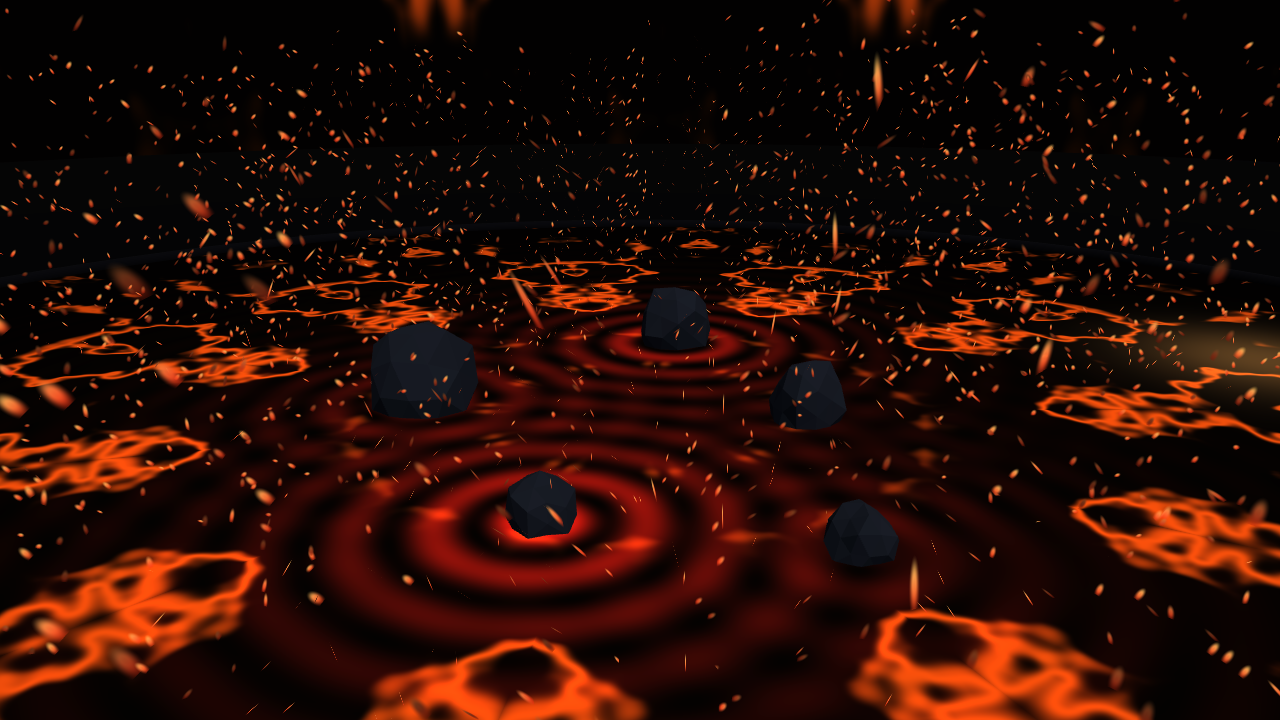
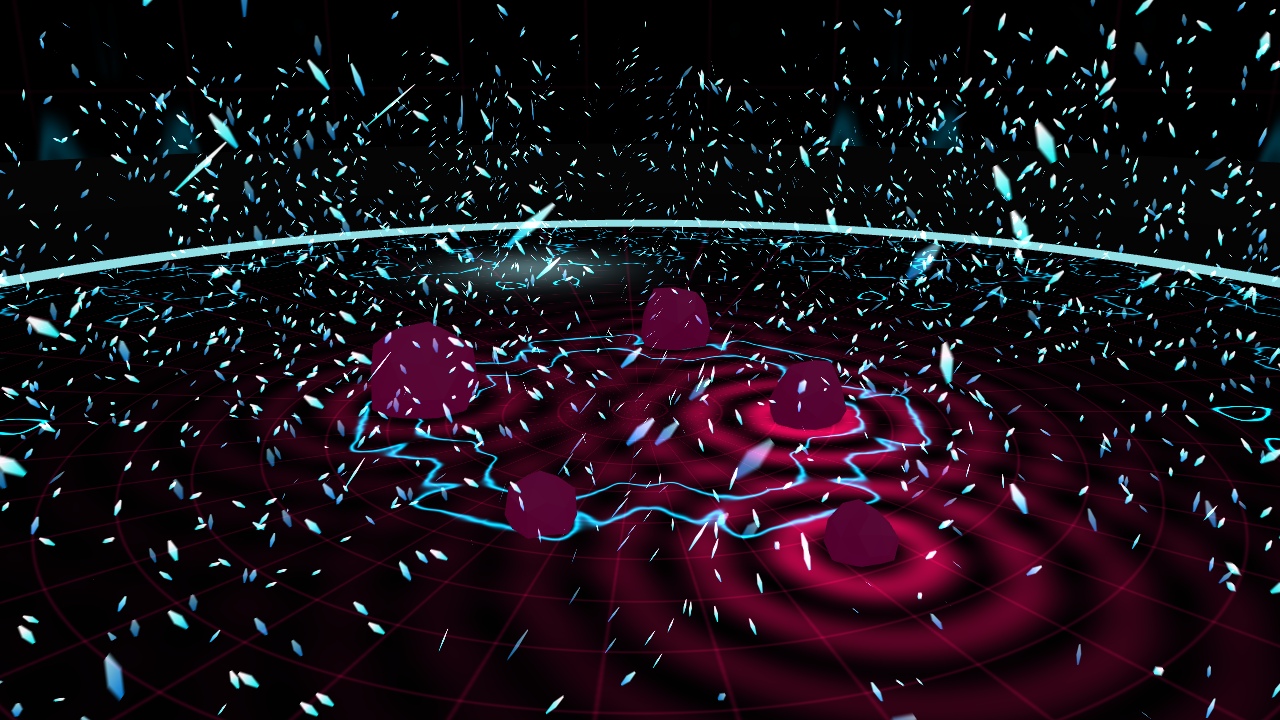
Cyber restyle: neon theme palettes, hologram grids, additive data shards, glowing rim

diff --git a/public/Kaleido_Garden/src/World.tsx b/public/Kaleido_Garden/src/World.tsx
@@ -10,7 +10,9 @@ import {
   InstancedBufferAttribute,
   InstancedBufferGeometry,
   Mesh,
-  NormalBlending,
+  MeshBasicMaterial,
+  MeshStandardMaterial,
+  AdditiveBlending,
   PlaneGeometry,
   ShaderMaterial,
   Vector3,
@@ -33,10 +35,10 @@ export type WorldProps = Record<string, never>
 
 const PETAL_COUNT = 3500
 const GARDEN_RADIUS = 26
-const SEASON_SECONDS = 120
+const THEME_SECONDS = 120
 // シェーダーへ渡す時刻はこの周期で折り返す（float精度対策。VAT_TestのMEADOWと同じ方針）
 const TIME_WRAP = 600
-const SEASON_FADE = 24
+const THEME_FADE = 24
 
 interface Palette {
   base: string
@@ -46,12 +48,16 @@ interface Palette {
   petalB: string
 }
 
-// 春・夏・秋・冬。2分ごとに次の季節へ24秒かけて移る。
+// サイバーなカラーテーマ4種。2分ごとに次のテーマへ24秒かけて移る。
 const PALETTES: Palette[] = [
-  { base: '#171021', glowA: '#ff9ecb', glowB: '#ffd98a', petalA: '#ffe3ef', petalB: '#ff9ec4' },
-  { base: '#0a1620', glowA: '#4fe3d2', glowB: '#9be7ff', petalA: '#eafffb', petalB: '#8fe8ff' },
-  { base: '#170f08', glowA: '#ff9a3c', glowB: '#ff5d47', petalA: '#ffd9a0', petalB: '#ff7a4d' },
-  { base: '#0a0d14', glowA: '#aecbf5', glowB: '#e8f1ff', petalA: '#ffffff', petalB: '#cfe0ff' },
+  // NEON CYAN × MAGENTA
+  { base: '#04060e', glowA: '#00e5ff', glowB: '#ff2ea6', petalA: '#d9fbff', petalB: '#00c8ff' },
+  // VIOLET PULSE
+  { base: '#07040f', glowA: '#a855f7', glowB: '#ff4d8d', petalA: '#f3e8ff', petalB: '#c084fc' },
+  // ACID MINT
+  { base: '#030a08', glowA: '#34ffb0', glowB: '#00b3ff', petalA: '#e2fff4', petalB: '#4dffc3' },
+  // AMBER ALERT
+  { base: '#0d0503', glowA: '#ffb020', glowB: '#ff3b30', petalA: '#fff3d6', petalB: '#ff8a3c' },
 ]
 
 const ROCKS = [
@@ -138,8 +144,12 @@ const FLOOR_FRAG = /* glsl */ `
     vec2 kp = kaleido(p, uSegments);
     vec2 flow = 1.2 * vec2(cos(uTime * 0.0524), sin(uTime * 0.0419));
     float v = fbm(kp * 0.32 + flow + fbm3(kp * 0.12 - flow) * 0.9);
-    float contour = 1.0 - smoothstep(0.0, 0.16, abs(fract(v * 2.6 + uTime * 0.015) - 0.5));
-    contour = pow(contour, 2.0);
+    float contour = 1.0 - smoothstep(0.0, 0.07, abs(fract(v * 2.6 + uTime * 0.015) - 0.5));
+    contour = pow(contour, 3.0);
+    // ホログラム格子（同心円と放射）とスキャンラインのきらめき
+    float gridR = pow(1.0 - smoothstep(0.0, 0.05, abs(fract(r * 0.8) - 0.5)), 2.0);
+    float spoke = atan(p.y, p.x) / 6.2831853 * uSegments * 6.0;
+    float gridA = pow(1.0 - smoothstep(0.0, 0.05, abs(fract(spoke) - 0.5)), 2.0);
 
     // 熊手で引いた砂紋
     float rake = sin(r * 7.0 - fbm3(p * 0.22) * 5.0) * 0.5 + 0.5;
@@ -159,8 +169,10 @@ const FLOOR_FRAG = /* glsl */ `
     vec2 bloomPos = 13.0 * vec2(cos(uTime * 0.0419), sin(uTime * 0.0314));
     float bloom = exp(-dot(p - bloomPos, p - bloomPos) / 10.0) * (0.5 + 0.5 * sin(uTime * 0.4503));
 
-    vec3 col = uBase * (0.82 + rake * 0.10);
-    col += uGlowA * contour * (0.35 + 0.65 * smoothstep(0.2, 0.9, v)) * mask;
+    vec3 col = uBase * (0.9 + rake * 0.06);
+    col += uGlowB * (gridR + gridA) * 0.10 * mask;
+    col += uGlowA * contour * (0.6 + 0.9 * smoothstep(0.2, 0.9, v)) * mask;
+    col *= 1.0 + 0.05 * sin(r * 40.0 - uTime * 2.1991);
     col += uGlowB * rip * 0.75 * mask;
     col += uPetalA * bloom * 0.35 * mask;
     col *= 0.75 + 0.25 * smoothstep(27.0, 6.0, r);
@@ -186,7 +198,10 @@ const DOME_FRAG = /* glsl */ `
     vec2 sp = vec2(a * 4.0, dir.y * 2.2);
     float v = fbm(sp * 1.4 + 0.6 * vec2(cos(uTime * 0.0314), sin(uTime * 0.0524)) + fbm3(sp * 0.8) * 0.7);
     float contour = pow(1.0 - smoothstep(0.0, 0.18, abs(fract(v * 2.2) - 0.5)), 2.0);
+    float lat = pow(1.0 - smoothstep(0.0, 0.03, abs(fract(dir.y * 6.0) - 0.5)), 2.0);
+    float lon = pow(1.0 - smoothstep(0.0, 0.03, abs(fract(a / sector * 6.0) - 0.5)), 2.0);
     vec3 col = uBase * 0.85;
+    col += uGlowB * (lat + lon) * 0.07 * smoothstep(-0.1, 0.3, dir.y);
     col += uGlowA * contour * 1.15 * smoothstep(-0.15, 0.45, dir.y);
     col += uGlowB * pow(max(dir.y, 0.0), 3.0) * 0.12;
     float sparkle = pow(max(0.0, fbm(dir.xy * 30.0 + dir.zx * 17.0)), 18.0);
@@ -238,12 +253,11 @@ const PETAL_FRAG = /* glsl */ `
   varying vec2 vUv;
   varying float vShade;
   void main(){
-    vec2 q = vUv - vec2(0.5, 0.42);
-    q.x *= 1.3;
-    float d = length(q) + (vUv.y - 0.42) * 0.16;
-    float alpha = smoothstep(0.55, 0.10, d) * 0.95;
+    vec2 q = vUv - 0.5;
+    float d = abs(q.x) * 2.4 + abs(q.y) * 1.05;
+    float alpha = smoothstep(1.0, 0.5, d) * 0.95;
     if(alpha < 0.01) discard;
-    vec3 col = mix(uPetalB, uPetalA, vUv.y) * vShade;
+    vec3 col = mix(uPetalB, uPetalA, vUv.y) * vShade * 1.5;
     gl_FragColor = vec4(col, alpha);
   }
 `
@@ -318,6 +332,18 @@ export function World() {
     [shared],
   )
 
+  const rockMat = useMemo(
+    () =>
+      new MeshStandardMaterial({
+        color: '#151824',
+        roughness: 0.9,
+        flatShading: true,
+        emissive: '#000000',
+      }),
+    [],
+  )
+  const rimMat = useMemo(() => new MeshBasicMaterial({ color: PALETTES[0].glowA }), [])
+
   const petalMesh = useMemo(() => {
     const plane = new PlaneGeometry(0.13, 0.21)
     const geo = new InstancedBufferGeometry()
@@ -355,7 +381,7 @@ export function World() {
       transparent: true,
       depthWrite: false,
       side: DoubleSide,
-      blending: NormalBlending,
+      blending: AdditiveBlending,
     })
     const mesh = new Mesh(geo, mat)
     mesh.frustumCulled = false
@@ -370,12 +396,12 @@ export function World() {
     shared.uTime.value = t % TIME_WRAP
     shared.uSegments.value = 9 + Math.sin(t * 0.017) * 2.5
 
-    // 季節パレットの補間
-    const cycle = t % (SEASON_SECONDS * PALETTES.length)
-    const idx = Math.floor(cycle / SEASON_SECONDS)
-    const local = cycle - idx * SEASON_SECONDS
-    const fadeStart = SEASON_SECONDS - SEASON_FADE
-    const f = local > fadeStart ? (local - fadeStart) / SEASON_FADE : 0
+    // テーマパレットの補間
+    const cycle = t % (THEME_SECONDS * PALETTES.length)
+    const idx = Math.floor(cycle / THEME_SECONDS)
+    const local = cycle - idx * THEME_SECONDS
+    const fadeStart = THEME_SECONDS - THEME_FADE
+    const f = local > fadeStart ? (local - fadeStart) / THEME_FADE : 0
     const smooth = f * f * (3 - 2 * f)
     const cur = PALETTES[idx]
     const nxt = PALETTES[(idx + 1) % PALETTES.length]
@@ -397,6 +423,11 @@ export function World() {
     const target = dist < GARDEN_RADIUS ? 1 : 0
     scratch.current.visitor += (target - scratch.current.visitor) * 0.06
     shared.uVisitor.value.set(cam.x, cam.z, scratch.current.visitor)
+
+    // 縁のネオンリングと石の縁発光をテーマ色に同期
+    const pulse = 0.5 + 0.5 * Math.sin(t * 0.4503)
+    rimMat.color.copy(shared.uGlowA.value).multiplyScalar(0.8 + 0.35 * pulse)
+    rockMat.emissive.copy(shared.uGlowB.value).multiplyScalar(0.06 + 0.05 * pulse)
   })
 
   return (
@@ -421,22 +452,20 @@ export function World() {
       </mesh>
 
       {/* 縁石 */}
-      <mesh rotation={[Math.PI / 2, 0, 0]} position={[0, 0.02, 0]}>
+      <mesh material={rimMat} rotation={[Math.PI / 2, 0, 0]} position={[0, 0.02, 0]}>
         <torusGeometry args={[GARDEN_RADIUS + 0.4, 0.28, 10, 108]} />
-        <meshStandardMaterial color="#1d1d24" roughness={0.95} />
       </mesh>
 
       {/* 石 */}
       {ROCKS.map((rock, i) => (
         <mesh
           key={i}
+          material={rockMat}
           geometry={rockGeos[i]}
           position={[rock.pos[0], rock.h * 0.30, rock.pos[1]]}
           rotation={[0, rock.rot, 0]}
           scale={[1, rock.h / rock.r, 1]}
-        >
-          <meshStandardMaterial color="#363b47" roughness={0.95} flatShading />
-        </mesh>
+        />
       ))}
 
       {/* 花びらの渦（GPUインスタンシング） */}

diff --git a/public/Kaleido_Garden/README.md b/public/Kaleido_Garden/README.md
@@ -9,7 +9,7 @@
 | 庭の床 | シェーダー1枚。万華鏡対称に折ったFBMノイズの等高線が変容し続ける。石と訪問者の足元から波紋 |
 | 空のドーム | 床と同じ模様関数・パレットを共有するシェーダー1枚 |
 | 花びらの渦 | GPUインスタンシング1ドローコール。軌道計算は頂点シェーダー内で完結（CPUは時刻uniformのみ） |
-| 季節 | サーバ時計で全員同期。パレットが120秒ごとに次の季節へ24秒かけて遷移、対称数も6.5〜11.5で緩やかに変動 |
+| カラーテーマ | サーバ時計で全員同期。パレットが120秒ごとに次のテーマへ24秒かけて遷移、対称数も6.5〜11.5で緩やかに変動 |
 | 石・縁石 | 位置ハッシュで頂点をずらした低ポリゴン＋固定コライダー |
 
 ## スマホ対応の方針
